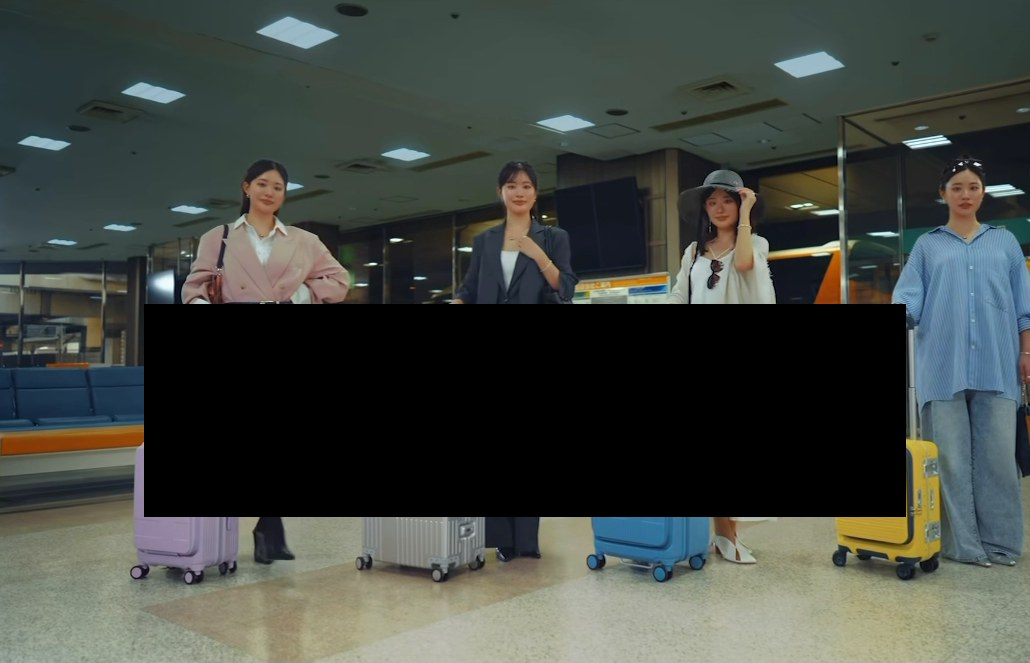
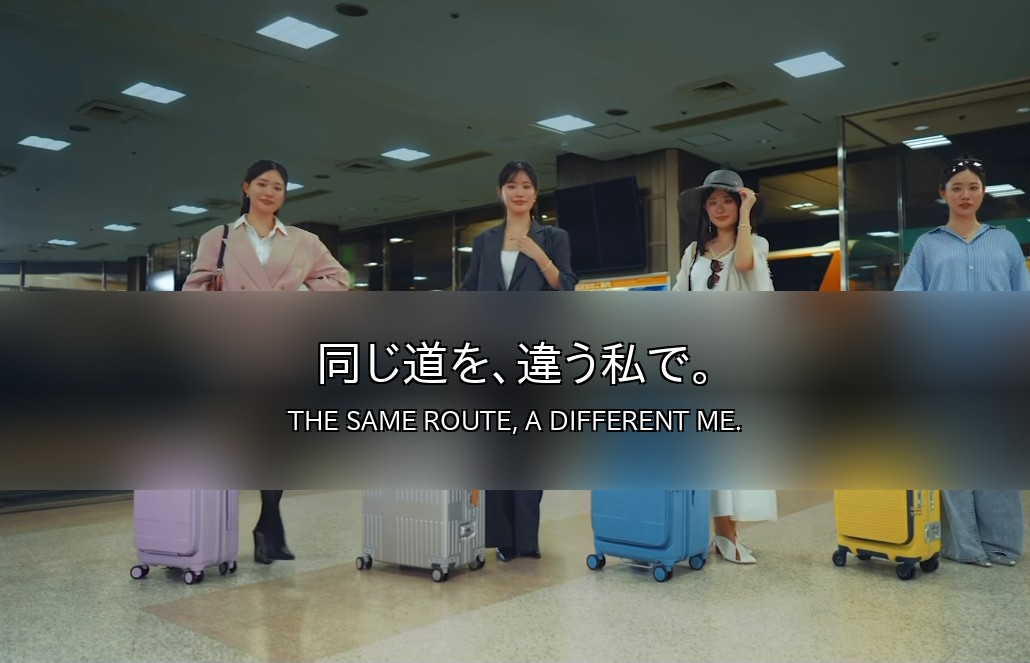
①を引き中心に直し、ドアの開閉を最初のトランジションにする
・S1をドアの変化に組み替え：玄関の引き → ドアの前に立つ → ドアが開いた瞬間に
  服も鞄も変わっている。この一本の決まりごとを冒頭で見せる形にした
・寄りのカットを全て引きに変更。手元に寄ると何が変わったのか伝わらないため、
  企画文にも「寄りは使わない。全身が入る引きで撮る」と明記
・つなぎ方を三つに整理（ドアが開く／車や柱が横切る／木の幹の前ボケ）
・締めのコマは参考動画のテロップを黒塗りせず、実際の文言
  「同じ道を、違う私で。／ THE SAME ROUTE, A DIFFERENT ME.」を載せた
・⑥の英語を Why Brands Choose Us に確定

Claude-Session: https://claude.ai/code/session_01WExUic6FKpEPScTy7HvD5X

Changed region(s): [[0.0, 0.4223, 1.0, 0.7843]]

diff --git a/pdf/kakutei.html b/pdf/kakutei.html
@@ -114,14 +114,14 @@ table.grid .cap b { border-bottom:1.2px solid #e0c9a4; }
   </div>
   <div class="vbody">
     <div class="col">
-      <div class="blk"><span class="lbl">企 画</span>家を出てから会社に着くまでの三十秒。<b>カメラは固定し、変わるのは服と革の色だけ。</b>参考動画と同じで、<b>同じ場所・同じ画角を最後まで使い回し、人と色だけを入れ替える。</b><br><br><b>つなぎ方は二つ。</b>①手前を車や柱が横切る ②<b>手前を木の幹が横切る前ボケ</b>（参考動画のS4がこれ）。抜けた瞬間に色が変わっている。<br><br>参考動画はスーツケースの広告なので場所が空港になっている。<b>こちらは通勤路に置き換える</b>（並木道 → 駅 → 会社のエントランス）。玄関一か所、通勤路二か所、駅一か所、会社前一か所で撮り切れる。売り込みはひとつも入れない。</div>
+      <div class="blk"><span class="lbl">企 画</span>家を出てから会社に着くまでの三十秒。<b>カメラは固定し、変わるのは服と革の色だけ。</b><b>寄りは使わない。全身が入る引きで撮る</b>── 変わったことが分かるのは全体が見えているときだけで、手元に寄ると何が変わったのか伝わらない。参考動画と同じで、<b>同じ場所・同じ画角を最後まで使い回し、人と色だけを入れ替える。</b><br><br><b>つなぎ方は三つ。</b>①<b>玄関のドアが開く</b>（冒頭。開いた瞬間に服と鞄が変わっていて、この一本の決まりごとが最初に伝わる）②手前を車や柱が横切る ③<b>手前を木の幹が横切る前ボケ</b>（参考動画のS4がこれ）。いずれも抜けた瞬間に色が変わっている。<br><br>参考動画はスーツケースの広告なので場所が空港になっている。<b>こちらは通勤路に置き換える</b>（並木道 → 駅 → 会社のエントランス）。玄関一か所、通勤路二か所、駅一か所、会社前一か所で撮り切れる。売り込みはひとつも入れない。</div>
       <div class="blk"><span class="lbl">こ の 1 本 で 言 う こ と</span>服が変われば、合う革の色も変わる。同じ革・同じ色で、財布からバッグまで揃う。</div>
       <div class="telop"><span class="lbl">テ ロ ッ プ</span><div class="jp">同じ道を、違う私で。</div><div class="en">THE SAME ROUTE, A DIFFERENT ME.</div></div>
       <div class="blk"><span class="lbl">締 め の 一 カ ッ ト に 重 ね る</span>テロップ　同じ道を、違う私で。<br><span style='color:#8a7a63'>THE SAME ROUTE, A DIFFERENT ME.</span><br>ナレーション　毎日をカラフルに<br><span style='color:#8a7a63'>Make every day colourful.</span><br><span style='color:#a8763e'>四色が並ぶ画の上にテロップを重ね、そこにナレーションを一言だけ入れて、そのままロゴで終える。</span></div>
     </div>
     <table class="grid"><tr><th>シーン</th><th>ショット 1</th><th>ショット 2</th><th>ショット 3</th></tr>
-<tr><td class="sc"><b>S1 支度</b><br>0-4秒</td><td><div class="ph0">撮影して差し替え</div><div class="cap">玄関。財布をポケットに入れる（寄り）</div></td><td><div class="ph0">撮影して差し替え</div><div class="cap">鍵を取る手元（超寄り）。ここではまだ色を見せない</div></td><td><div class="ph0">撮影して差し替え</div><div class="cap">ドアノブに手がかかる（超寄り）</div></td></tr>
-<tr><td class="sc"><b>S2 通勤路に出る</b><br>4-9秒</td><td><img src="../assets/ref4/1_S2_01_通勤路を歩く_引き.jpg"><div class="cap">通勤路を歩く（引き）。<b>この画角を最後まで使い回す（基準カット）</b></div></td><td><img src="../assets/ref4/1_S2_02_歩いてくる全身.jpg"><div class="cap">同じ画角。歩いてくる全身（一色目）</div></td><td><div class="ph0">撮影して差し替え</div><div class="cap">手元の革小物だけに寄る（超寄り）<b>※この寄りは参考動画にはない</b></div></td></tr>
+<tr><td class="sc"><b>S1 支度</b><br>0-5秒</td><td><div class="ph0">撮影して差し替え</div><div class="cap">玄関の中。<b>全身が入る引き。</b>出かける支度をしている</div></td><td><div class="ph0">撮影して差し替え</div><div class="cap">ドアの前に立つ（引き）。<b>同じ画角に固定する</b></div></td><td><div class="ph0">撮影して差し替え</div><div class="cap"><b>ドアが開く。開いた瞬間、服も鞄も変わっている。</b>同じ画角のまま。<b>この一本の決まりごとを、いちばん最初に見せてしまう</b></div></td></tr>
+<tr><td class="sc"><b>S2 通勤路に出る</b><br>5-9秒</td><td><img src="../assets/ref4/1_S2_01_通勤路を歩く_引き.jpg"><div class="cap">通勤路を歩く（引き）。<b>この画角を最後まで使い回す（基準カット）</b></div></td><td><img src="../assets/ref4/1_S2_02_歩いてくる全身.jpg"><div class="cap">同じ画角。歩いてくる全身（一色目）</div></td><td><div class="ph0">撮影して差し替え</div><div class="cap">歩き出す全身（引き・ロー）。<b>鞄が体の横で揺れる</b></div></td></tr>
 <tr><td class="sc"><b>S3 変わる①</b><br>9-14秒</td><td><img src="../assets/ref4/1_S3_01_服が変わり色も変わる.jpg"><div class="cap"><b>同じ画角のまま服が変わっている。</b>小物の色も変わる（二色目）</div></td><td><img src="../assets/ref4/1_S3_02_三色目.jpg"><div class="cap">同じ道。三色目</div></td><td><img src="../assets/ref4/1_S3_03_立ち止まって振り返る.jpg"><div class="cap">立ち止まって振り返る。手元の色が見える</div></td></tr>
 <tr><td class="sc"><b>S4 つなぐ</b><br>14-18秒</td><td><img src="../assets/ref4/1_S4_01_手前を横切る_前ボケ.jpg"><div class="cap"><b>手前を木の幹が横切る（前ボケ＝トランジション）</b></div></td><td><img src="../assets/ref4/1_S4_02_抜けたら四色目.jpg"><div class="cap">抜けたら別の服・別の色になっている（四色目）</div></td><td><img src="../assets/ref4/1_S4_03_場所が変わる_構内.jpg"><div class="cap">場所が変わる。駅の構内（引き）</div></td></tr>
 <tr><td class="sc"><b>S5 移動</b><br>18-22秒</td><td><img src="../assets/ref4/1_S5_01_乗り場_引き.jpg"><div class="cap">乗り場（引き）。同じ人・違う色</div></td><td><img src="../assets/ref4/1_S5_02_通路を歩く.jpg"><div class="cap">通路を歩く。横移動で追う</div></td><td><img src="../assets/ref4/1_S5_03_入口に着く.jpg"><div class="cap">会社の入口に着く</div></td></tr>

diff --git a/tools/data_pdf.py b/tools/data_pdf.py
@@ -51,7 +51,7 @@ PAGES = [
   meta_len="30秒 ／ 21ショット", meta_target="対象＝新規・リピーター　／　全媒体",
   ref='参考動画＝<a href="https://www.instagram.com/reels/DZG2DvMh-Ts/">Link</a>（innovator SWEDEN）',
   ref_detail="Instagramリール1本／innovator SWEDEN（スーツケースの広告）。<b>1倍速換算 約35秒</b>。<b>同じ並木道と同じ空港ロビーで、人物ごとに服とスーツケースの色が変わる。</b>手前を木の幹が横切る前ボケでつなぎ、最後は人がフレームから出てケースだけが残り、四色が並んで終わる。<span style='color:#a8763e'>玄関・自宅のカットは参考動画にはないので、絵コンテの写真も入れていない。</span>",
-  plan="家を出てから会社に着くまでの三十秒。<b>カメラは固定し、変わるのは服と革の色だけ。</b>参考動画と同じで、<b>同じ場所・同じ画角を最後まで使い回し、人と色だけを入れ替える。</b><br><br><b>つなぎ方は二つ。</b>①手前を車や柱が横切る ②<b>手前を木の幹が横切る前ボケ</b>（参考動画のS4がこれ）。抜けた瞬間に色が変わっている。<br><br>参考動画はスーツケースの広告なので場所が空港になっている。<b>こちらは通勤路に置き換える</b>（並木道 → 駅 → 会社のエントランス）。玄関一か所、通勤路二か所、駅一か所、会社前一か所で撮り切れる。売り込みはひとつも入れない。",
+  plan="家を出てから会社に着くまでの三十秒。<b>カメラは固定し、変わるのは服と革の色だけ。</b><b>寄りは使わない。全身が入る引きで撮る</b>── 変わったことが分かるのは全体が見えているときだけで、手元に寄ると何が変わったのか伝わらない。参考動画と同じで、<b>同じ場所・同じ画角を最後まで使い回し、人と色だけを入れ替える。</b><br><br><b>つなぎ方は三つ。</b>①<b>玄関のドアが開く</b>（冒頭。開いた瞬間に服と鞄が変わっていて、この一本の決まりごとが最初に伝わる）②手前を車や柱が横切る ③<b>手前を木の幹が横切る前ボケ</b>（参考動画のS4がこれ）。いずれも抜けた瞬間に色が変わっている。<br><br>参考動画はスーツケースの広告なので場所が空港になっている。<b>こちらは通勤路に置き換える</b>（並木道 → 駅 → 会社のエントランス）。玄関一か所、通勤路二か所、駅一か所、会社前一か所で撮り切れる。売り込みはひとつも入れない。",
   says="服が変われば、合う革の色も変わる。同じ革・同じ色で、財布からバッグまで揃う。",
   telop_jp="同じ道を、違う私で。", telop_en="THE SAME ROUTE, A DIFFERENT ME.",
   extra=("締 め の 一 カ ッ ト に 重 ね る",
@@ -59,15 +59,15 @@ PAGES = [
    "ナレーション　毎日をカラフルに<br><span style='color:#8a7a63'>Make every day colourful.</span><br>"
    "<span style='color:#a8763e'>四色が並ぶ画の上にテロップを重ね、そこにナレーションを一言だけ入れて、そのままロゴで終える。</span>"),
   rows=[
-   ("S1 支度","0-4秒",[
-     (None,"玄関。財布をポケットに入れる（寄り）"),
-     (None,"鍵を取る手元（超寄り）。ここではまだ色を見せない"),
-     (None,"ドアノブに手がかかる（超寄り）"),
+   ("S1 支度","0-5秒",[
+     (None,"玄関の中。<b>全身が入る引き。</b>出かける支度をしている"),
+     (None,"ドアの前に立つ（引き）。<b>同じ画角に固定する</b>"),
+     (None,"<b>ドアが開く。開いた瞬間、服も鞄も変わっている。</b>同じ画角のまま。<b>この一本の決まりごとを、いちばん最初に見せてしまう</b>"),
    ]),
-   ("S2 通勤路に出る","4-9秒",[
+   ("S2 通勤路に出る","5-9秒",[
      ("1_S2_01_通勤路を歩く_引き","通勤路を歩く（引き）。<b>この画角を最後まで使い回す（基準カット）</b>"),
      ("1_S2_02_歩いてくる全身","同じ画角。歩いてくる全身（一色目）"),
-     (None,"手元の革小物だけに寄る（超寄り）<b>※この寄りは参考動画にはない</b>"),
+     (None,"歩き出す全身（引き・ロー）。<b>鞄が体の横で揺れる</b>"),
    ]),
    ("S3 変わる①","9-14秒",[
      ("1_S3_01_服が変わり色も変わる","<b>同じ画角のまま服が変わっている。</b>小物の色も変わる（二色目）"),
